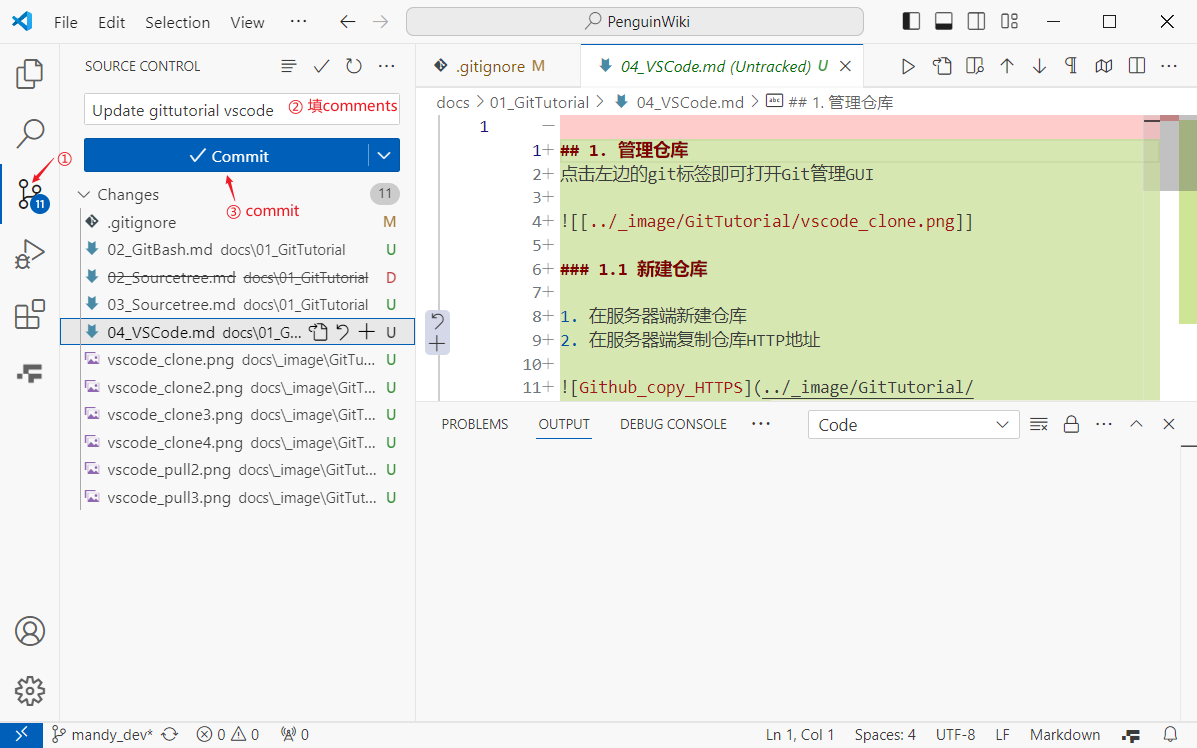
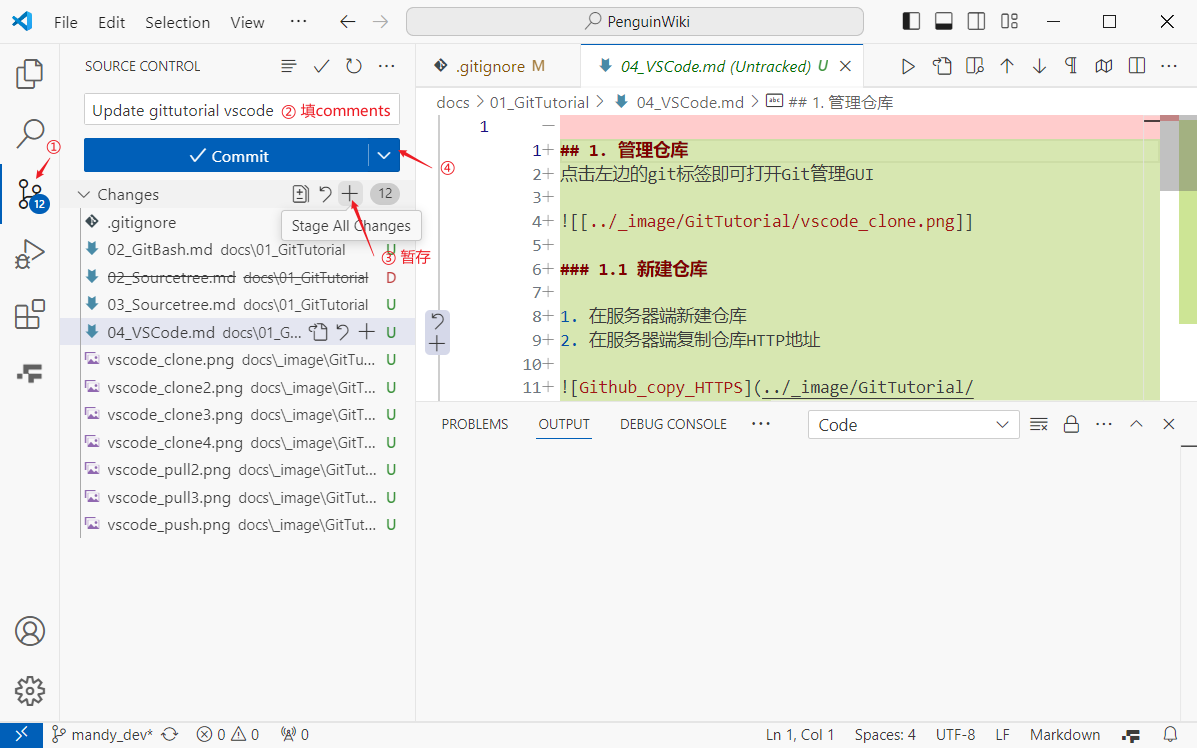
update gittutorial vscode

diff --git a/docs/01_GitTutorial/04_VSCode.md b/docs/01_GitTutorial/04_VSCode.md
@@ -24,8 +24,9 @@ clone完成后打开：
 ## 2. 更改仓库
 ### 2.1 push
 
+![[../_image/GitTutorial/vscode_push.png]]
 
-
+![[../_image/GitTutorial/vscode_push2.png]]
 ### 2.2 pull
 ![[../_image/GitTutorial/vscode_pull2.png]]
 
